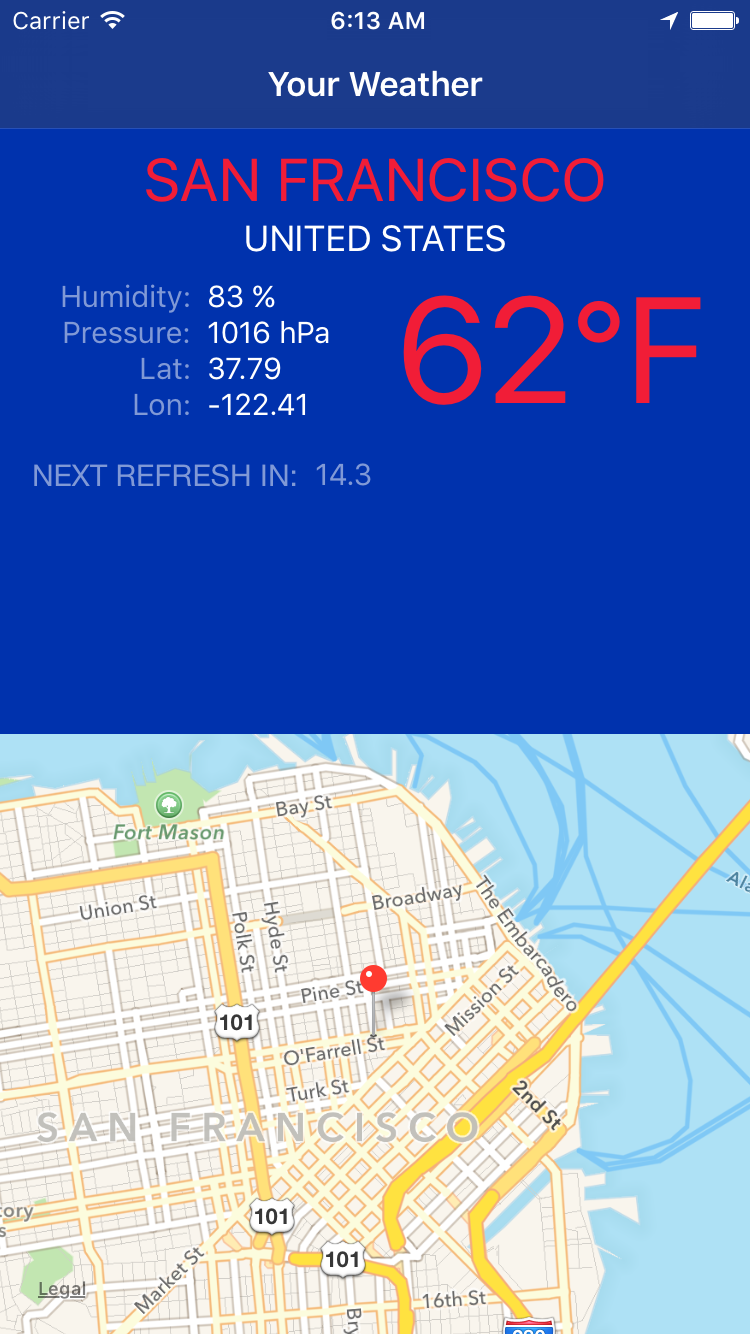
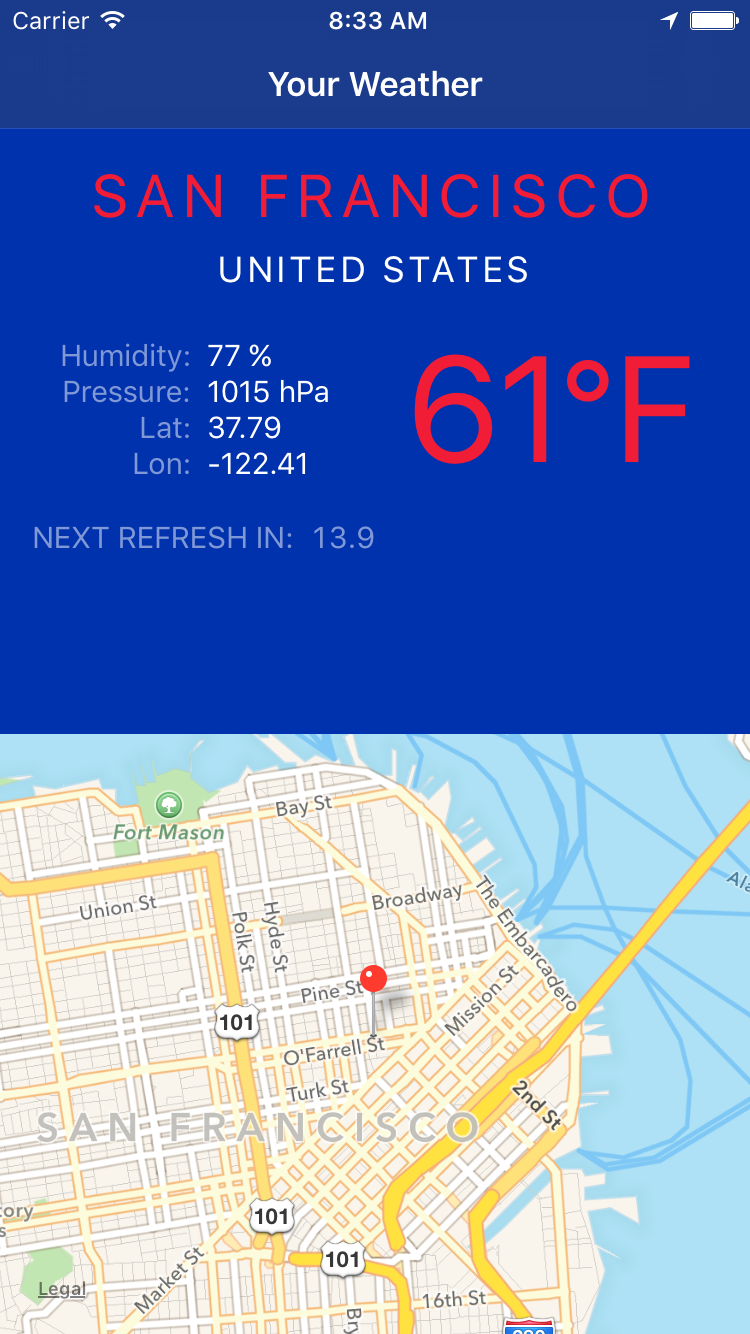
Updates to set the correct spacing of the letters as well as the correct positioning

diff --git a/whats-new-in-xcode/projects/final/LocalWeather/LocalWeather/ViewControllers/WeatherViewController.swift b/whats-new-in-xcode/projects/final/LocalWeather/LocalWeather/ViewControllers/WeatherViewController.swift
@@ -69,6 +69,9 @@ class WeatherViewController: UIViewController {
 
     assert(CLLocationManager.locationServicesEnabled())
 
+    // Set numbers to monospaced so that the label maintains its width
+    countdownLabel.font = UIFont.monospacedDigitSystemFontOfSize(countdownLabel.font.pointSize, weight: 0)
+
     // Hide the main and the countdownLabel stack views when the view first loads
     mainStackView.hidden = true
     countdownLabelStackView.hidden = true
@@ -148,15 +151,17 @@ class WeatherViewController: UIViewController {
     let usesMetricSystem = NSLocale.currentLocale().objectForKey(NSLocaleUsesMetricSystem) as? Bool ?? true
     let unitAbbreviation = usesMetricSystem ? "C" : "F"
 
+    let countryNameText: String
     if let countryName = NSLocale.systemLocale().displayNameForKey(NSLocaleCountryCode, value: weatherData.countryCode) {
-      countryNameLabel.text = countryName.uppercaseString
+      countryNameText = countryName.uppercaseString
     } else if weatherData.countryCode == "none" {
-      countryNameLabel.text = ""
+      countryNameText = ""
     } else {
-      countryNameLabel.text = weatherData.countryCode
+      countryNameText = weatherData.countryCode
     }
 
-    cityNameLabel.text = weatherData.name.uppercaseString
+    countryNameLabel.attributedText = NSAttributedString(string: countryNameText, attributes: [NSKernAttributeName: 2])
+    cityNameLabel.attributedText = NSAttributedString(string: weatherData.name.uppercaseString, attributes: [NSKernAttributeName: 4])
     temperatureLabel.text = "\(weatherData.temperature)°\(unitAbbreviation)"
     humidityLabel.text = "\(weatherData.humidity) %"
     pressureLabel.text = "\(weatherData.pressure) hPa"

diff --git a/whats-new-in-xcode/projects/starter/LocalWeather/LocalWeather/ViewControllers/WeatherViewController.swift b/whats-new-in-xcode/projects/starter/LocalWeather/LocalWeather/ViewControllers/WeatherViewController.swift
@@ -69,6 +69,9 @@ class WeatherViewController: UIViewController {
 
     assert(CLLocationManager.locationServicesEnabled())
 
+    // Set numbers to monospaced so that the label maintains its width
+    countdownLabel.font = UIFont.monospacedDigitSystemFontOfSize(countdownLabel.font.pointSize, weight: 0)
+
     // Hide the main and the countdownLabel stack views when the view first loads
     mainStackView.hidden = true
     countdownLabelStackView.hidden = true
@@ -147,15 +150,17 @@ class WeatherViewController: UIViewController {
     let usesMetricSystem = NSLocale.currentLocale().objectForKey(NSLocaleUsesMetricSystem) as? Bool ?? true
     let unitAbbreviation = usesMetricSystem ? "C" : "F"
 
+    let countryNameText: String
     if let countryName = NSLocale.systemLocale().displayNameForKey(NSLocaleCountryCode, value: weatherData.countryCode) {
-      countryNameLabel.text = countryName.uppercaseString
+      countryNameText = countryName.uppercaseString
     } else if weatherData.countryCode == "none" {
-      countryNameLabel.text = ""
+      countryNameText = ""
     } else {
-      countryNameLabel.text = weatherData.countryCode
+      countryNameText = weatherData.countryCode
     }
 
-    cityNameLabel.text = weatherData.name.uppercaseString
+    countryNameLabel.attributedText = NSAttributedString(string: countryNameText, attributes: [NSKernAttributeName: 2])
+    cityNameLabel.attributedText = NSAttributedString(string: weatherData.name.uppercaseString, attributes: [NSKernAttributeName: 4])
     temperatureLabel.text = "\(weatherData.temperature)°\(unitAbbreviation)"
     humidityLabel.text = "\(weatherData.humidity) %"
     pressureLabel.text = "\(weatherData.pressure) hPa"
